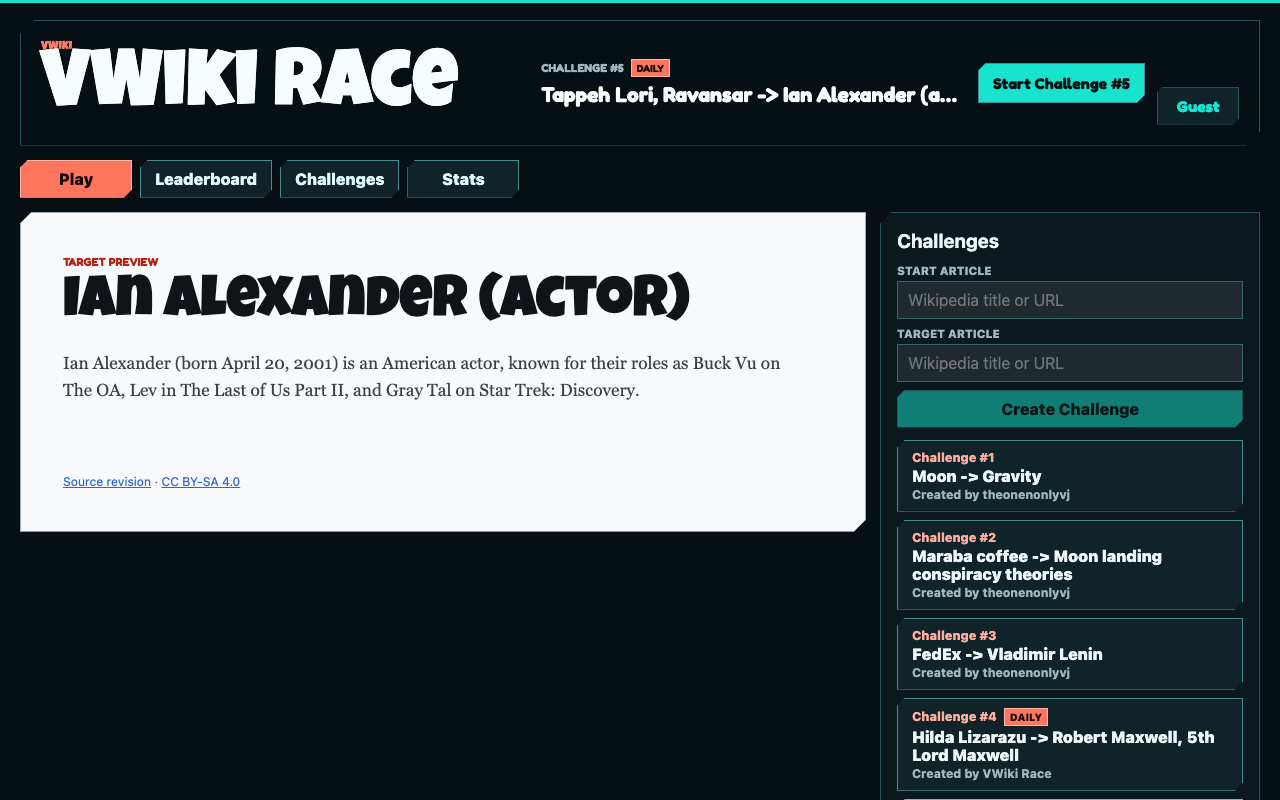
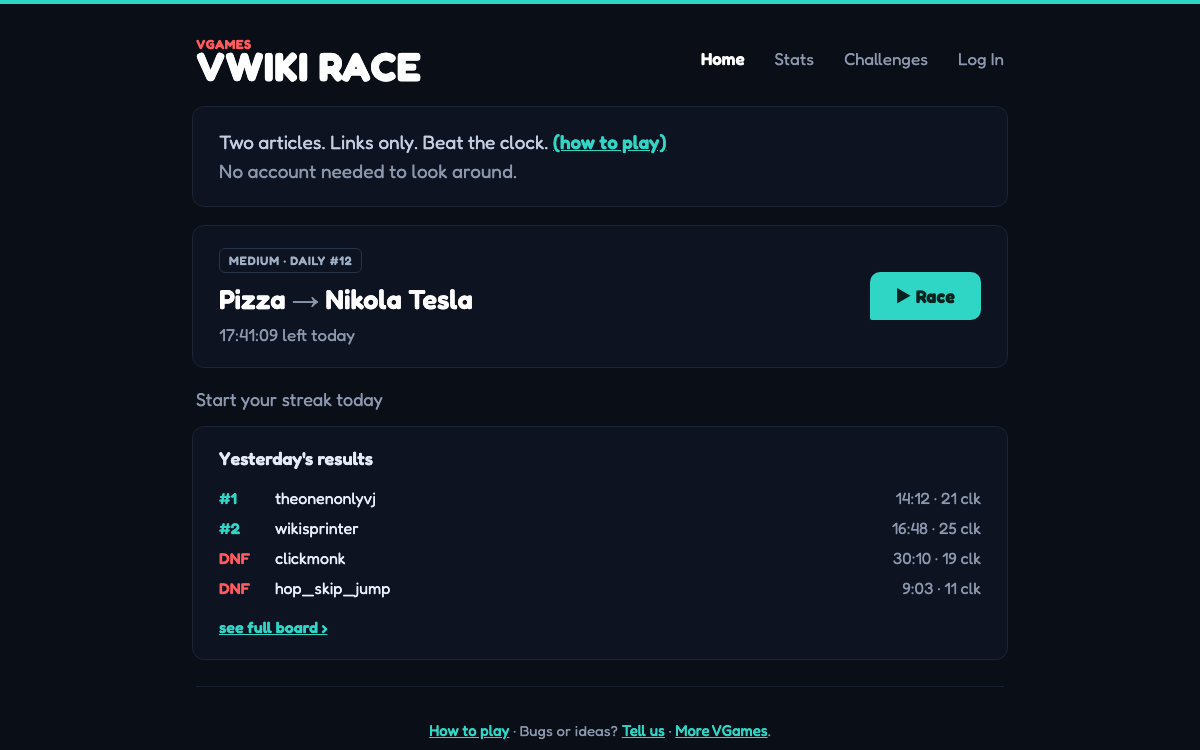
projects: feature VWiki Race (top slot) with 'Daily Challenges!' badge + faithful mock screenshot

diff --git a/src/components/ProjectCard.tsx b/src/components/ProjectCard.tsx
@@ -11,27 +11,41 @@ export function ProjectCard({ project }: { project: Project }) {
         boxShadow: 'var(--shadow)', display: 'flex', flexDirection: 'column',
       }}
     >
-      {imgOk ? (
-        <img
-          src={`${import.meta.env.BASE_URL}${project.thumbnail.replace(/^\//, '')}`}
-          alt={project.name}
-          onError={() => setImgOk(false)}
-          style={{ width: '100%', aspectRatio: '16 / 10', objectFit: project.thumbFit ?? 'cover', objectPosition: project.thumbPosition ?? 'center', background: project.thumbFit === 'contain' ? '#ffffff' : 'var(--hair-2)' }}
-        />
-      ) : (
-        <div
-          role="img"
-          aria-label={project.name}
-          style={{
-            width: '100%', aspectRatio: '16 / 10', background: 'var(--grad-hero)',
-            display: 'flex', alignItems: 'center', justifyContent: 'center',
-            color: '#fff', fontFamily: 'var(--font-display)', fontWeight: 600,
-            fontSize: 26, textAlign: 'center', padding: 16,
-          }}
-        >
-          {project.name}
-        </div>
-      )}
+      <div style={{ position: 'relative' }}>
+        {imgOk ? (
+          <img
+            src={`${import.meta.env.BASE_URL}${project.thumbnail.replace(/^\//, '')}`}
+            alt={project.name}
+            onError={() => setImgOk(false)}
+            style={{ display: 'block', width: '100%', aspectRatio: '16 / 10', objectFit: project.thumbFit ?? 'cover', objectPosition: project.thumbPosition ?? 'center', background: project.thumbFit === 'contain' ? '#ffffff' : 'var(--hair-2)' }}
+          />
+        ) : (
+          <div
+            role="img"
+            aria-label={project.name}
+            style={{
+              width: '100%', aspectRatio: '16 / 10', background: 'var(--grad-hero)',
+              display: 'flex', alignItems: 'center', justifyContent: 'center',
+              color: '#fff', fontFamily: 'var(--font-display)', fontWeight: 600,
+              fontSize: 26, textAlign: 'center', padding: 16,
+            }}
+          >
+            {project.name}
+          </div>
+        )}
+        {project.badge && (
+          <span
+            style={{
+              position: 'absolute', top: 12, left: 12,
+              background: 'var(--grad-hero)', color: '#fff', fontWeight: 700, fontSize: 13,
+              padding: '6px 12px', borderRadius: 999, letterSpacing: '.2px',
+              boxShadow: '0 2px 10px rgba(0,0,0,.28)',
+            }}
+          >
+            {project.badge}
+          </span>
+        )}
+      </div>
       <div style={{ padding: 'var(--pad)', display: 'flex', flexDirection: 'column', gap: 12, flex: 1 }}>
         <h3 style={{ margin: 0 }}>{project.name}</h3>
         <p style={{ margin: 0, color: 'var(--ink-2)', flex: 1 }}>{project.blurb}</p>

diff --git a/src/data/projects.ts b/src/data/projects.ts
@@ -4,12 +4,13 @@ export const projects: Project[] = [
   {
     slug: 'vwiki-race',
     name: 'VWiki Race',
-    blurb: 'A Wikipedia navigation race — click from one article to another in as few hops as you can, with tracked challenges and leaderboards.',
+    blurb: 'A Wikipedia navigation race — click from one article to another in as few hops as you can. Fresh daily challenges, streaks, and leaderboards.',
     repo: 'https://github.com/theonenonlyvj/vwiki-race',
     liveUrl: 'https://vwikirace.pages.dev/',
     status: 'live',
     thumbnail: '/screenshots/vwiki-race.png',
     featured: true,
+    badge: 'Daily Challenges!',
     thumbPosition: '50% 0%',
     cta: 'Play',
   },

diff --git a/src/types.ts b/src/types.ts
@@ -18,4 +18,6 @@ export interface Project {
   thumbFit?: 'cover' | 'contain'
   /** Optional small extra link shown under the card (e.g. a personalized demo). */
   secondaryLink?: { url: string; label: string }
+  /** Optional promo pill overlaid on the thumbnail (e.g. "Daily Challenges!"). */
+  badge?: string
 }
